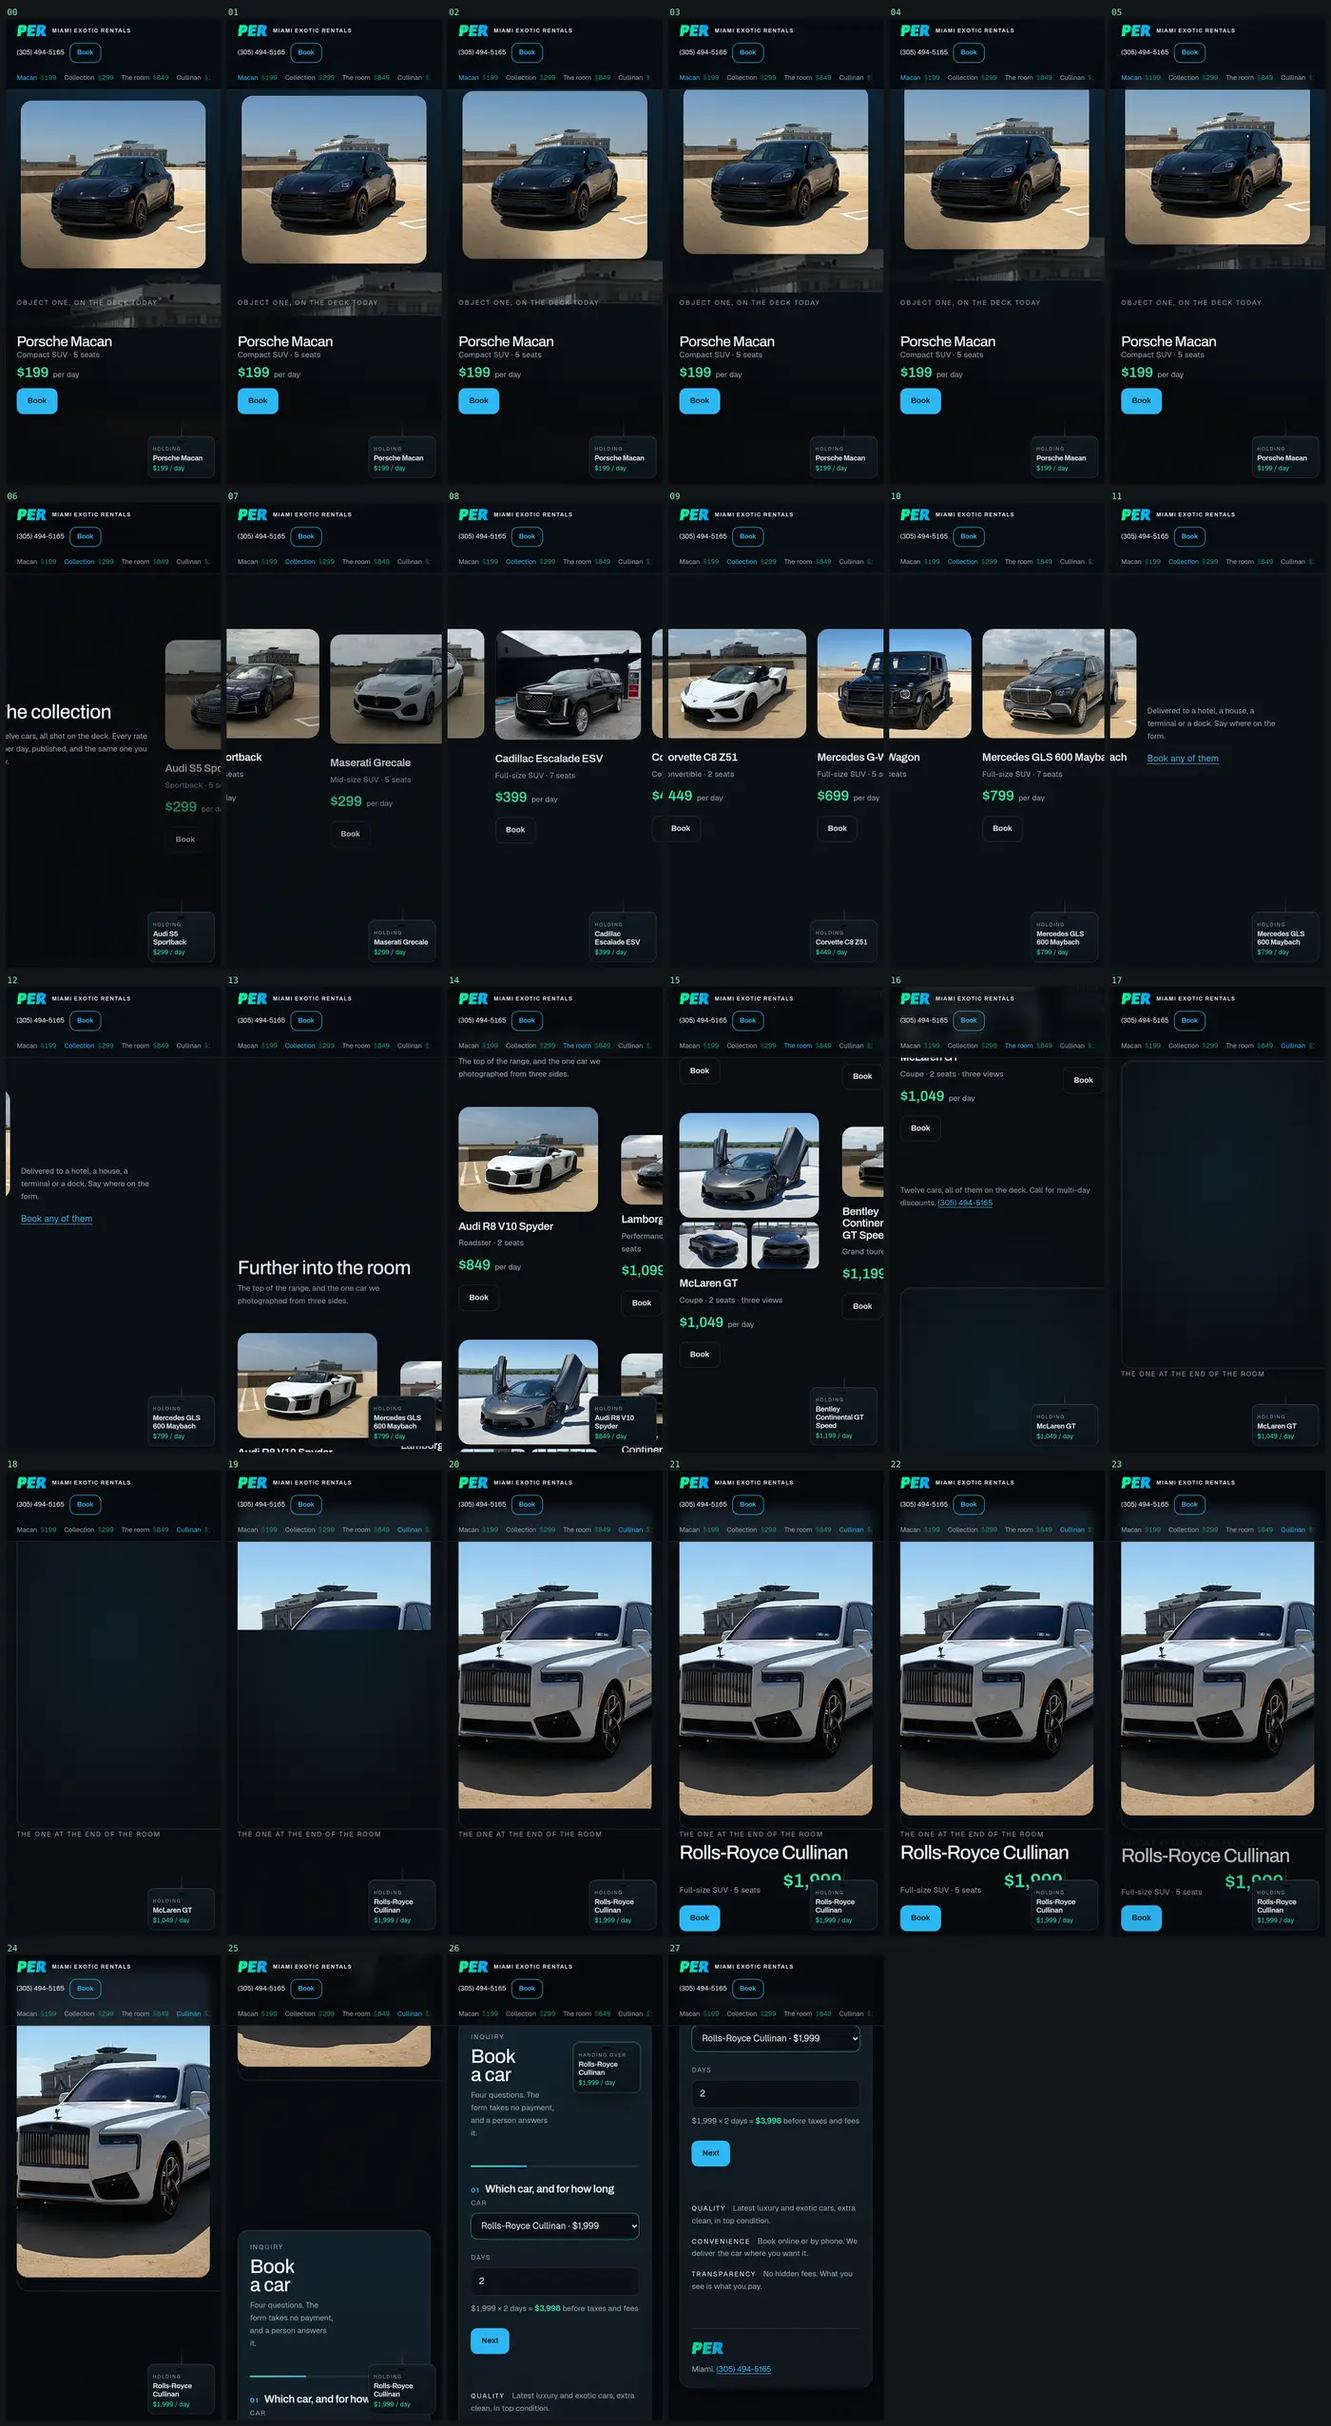
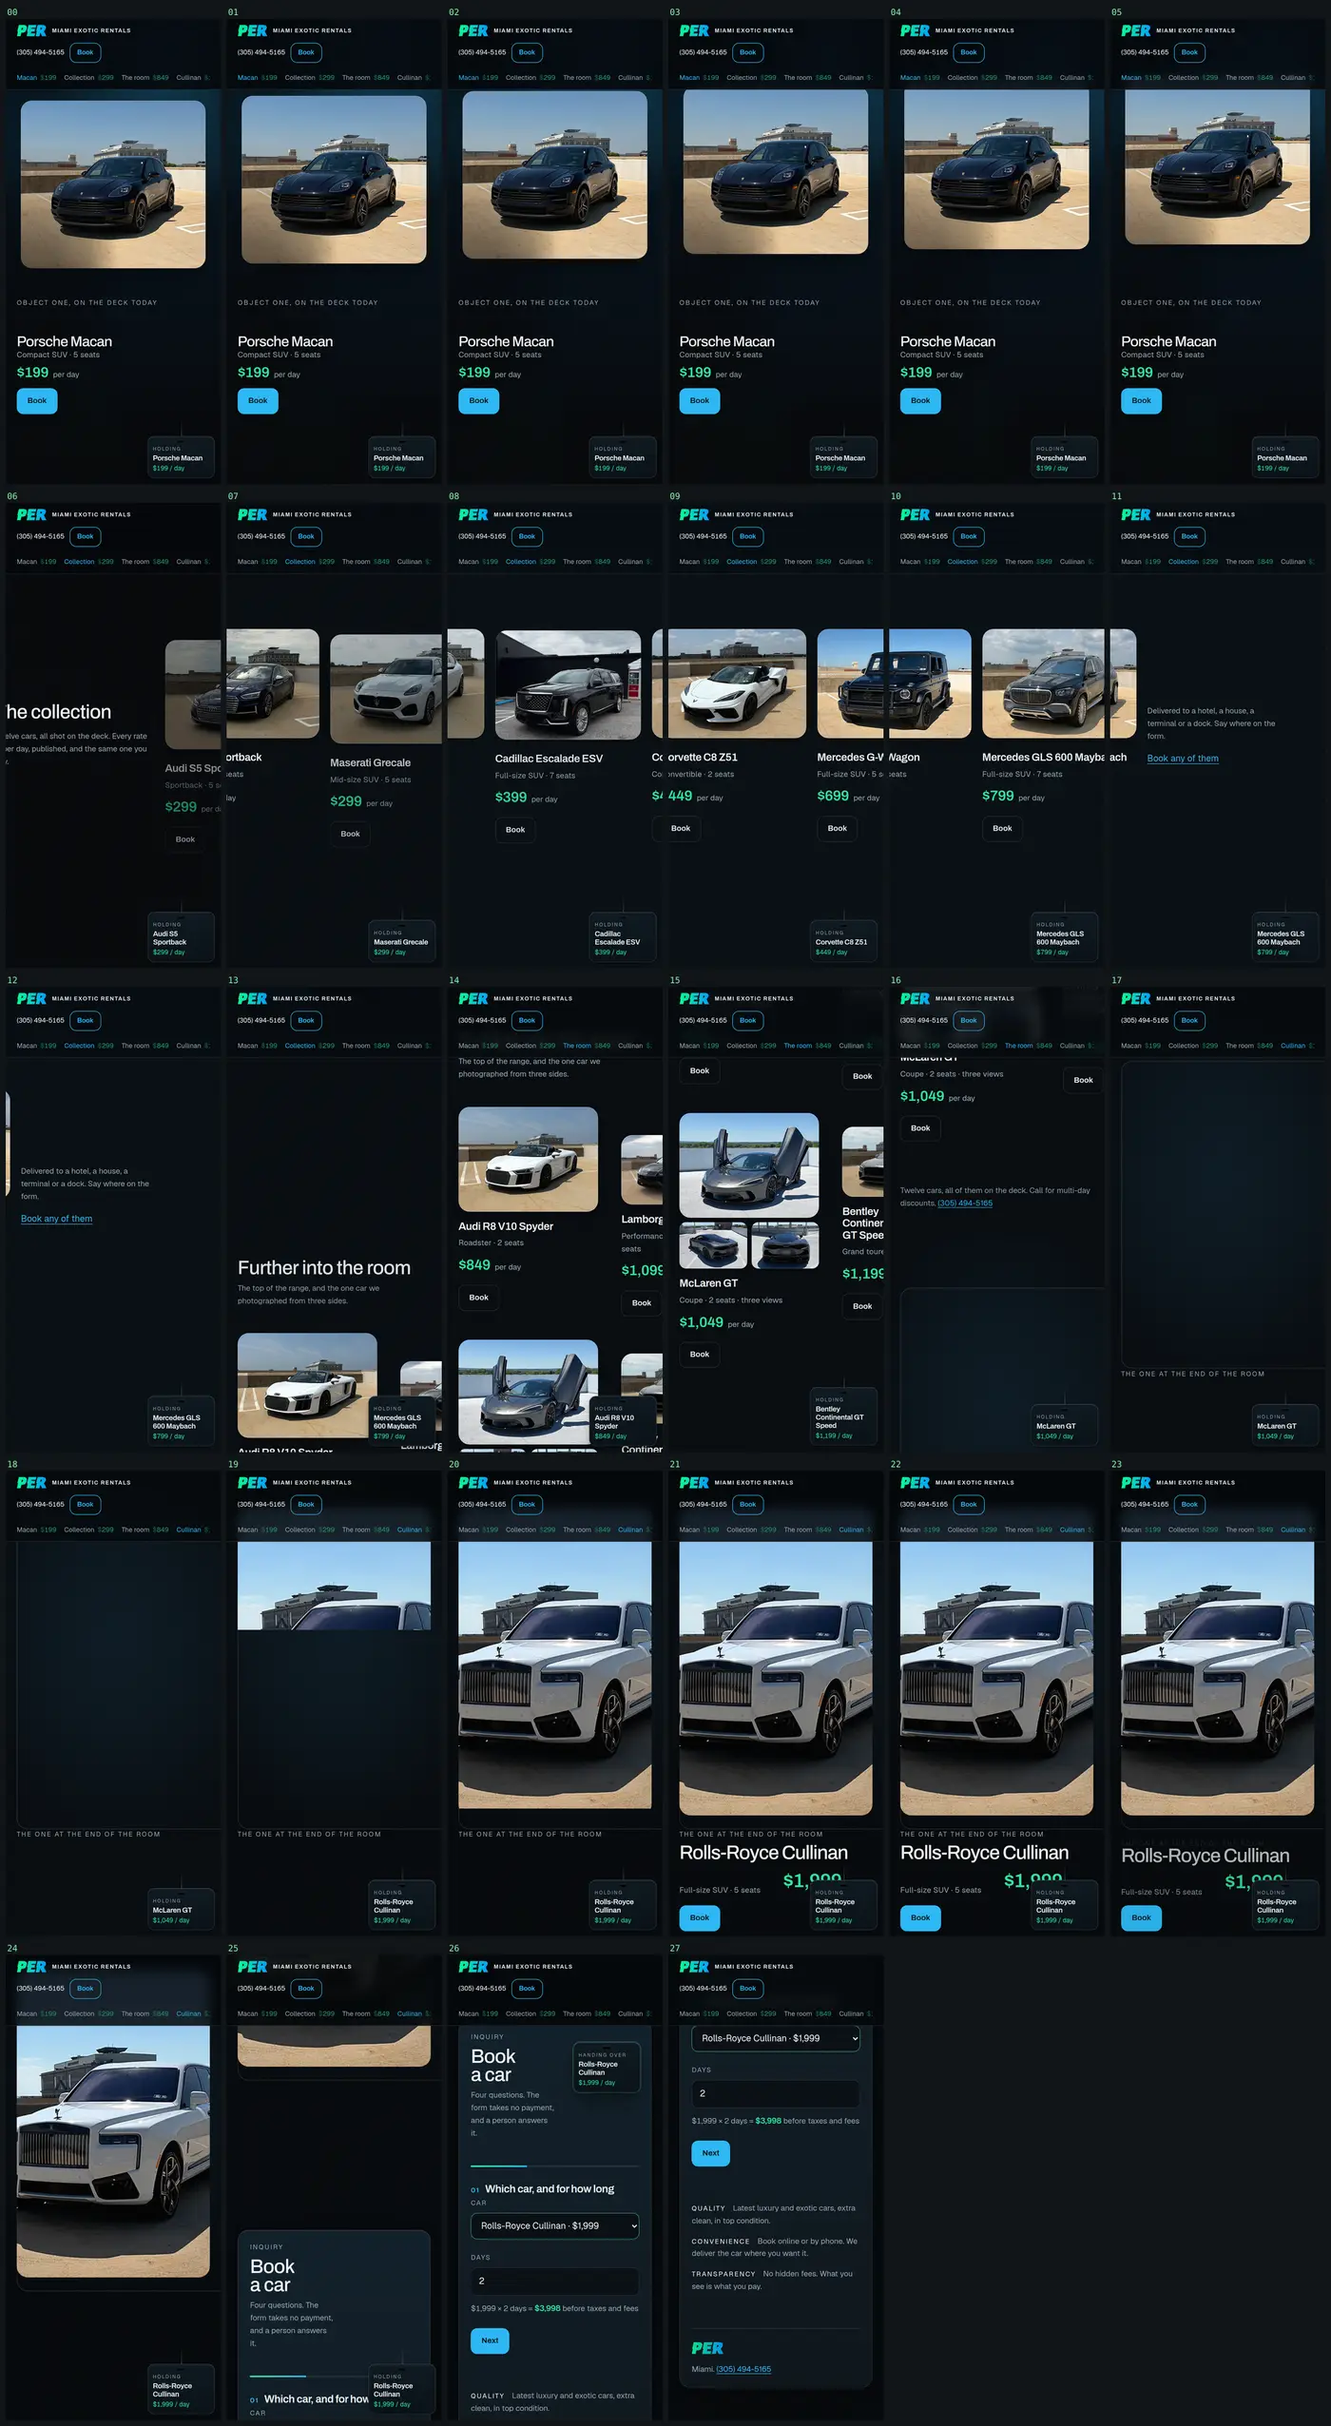
Gradient hero: cut the photographic backdrop planes
The owner looked at the keyed skyline sitting behind the hero frame and called
it what it is. At a 560px source both backdrop planes upscale into smears: the
skyline reads as a grey blur and the cropped deck as a tan haze. Neither earns
its place next to a clean photograph of a car.

Both are gone, with their assets. The hero's ground is now the brand's own
gradient, blue high on the right and green low on the left, and the only
photograph in the hero is the car in its frame.

Depth is still three rates and two overlaps:

  ground  the gradient, no travel
  glow    one soft light behind the frame                 -0.9
  plate   the photograph in its frame, pushing in         -0.45
  floor   a gradient foreground over the frame's edge      0.55
  label   real markup at 1x, crossing the frame's corner

That is less literal than a photographic diorama, and it is the right trade
here: a clean gradient reads as deliberate where a soft crop of a phone photo
reads as a mistake. The standing preference for dimensional heroes is explicit
that simpler directions are honored when given.

Re-verified all three passes: 13.5vh desktop, 13.3vh phone, no dead scroll,
every cue still clears 4.5:1 on the composited page, no failed requests. BRIEF,
README and the fingerprint row record the hero device change and why.

Claude-Session: https://claude.ai/code/session_01WNHnTBcKyrBsYk1asL9UUS

diff --git a/sites/per-miami/per.css b/sites/per-miami/per.css
@@ -229,46 +229,34 @@ body { overflow-x: clip; }
 .hero__sky {
   position: absolute; inset: 0;
   background:
-    radial-gradient(120% 80% at 62% 12%, color-mix(in oklab, #0F2E44 70%, transparent) 0%, transparent 62%),
-    linear-gradient(180deg, #0A1C2A 0%, #071219 46%, var(--sc-canvas) 86%);
+    radial-gradient(86% 58% at 74% 6%,
+      color-mix(in oklab, var(--sc-accent) 26%, #05121C) 0%, transparent 62%),
+    radial-gradient(76% 52% at 10% 96%,
+      color-mix(in oklab, var(--per-rate) 13%, #04120F) 0%, transparent 64%),
+    linear-gradient(176deg, #06151F 0%, #05101A 46%, var(--sc-canvas) 88%);
 }
-.hero__plane {
+/* One soft light, travelling faster than anything else, so the ground is not
+   a flat sheet. The keyed skyline and the cropped deck that used to sit here
+   read as smears behind the frame at a 560px source, so the hero's only
+   photograph is the car, in its frame. */
+.hero__glow {
   position: absolute;
-  left: 50%;
-  max-width: none;
-  width: min(1800px, 165vw);
-  height: auto;
+  left: 54%; top: 4%;
+  width: min(1180px, 124vw);
+  aspect-ratio: 2 / 1;
+  translate: -50% 0;
+  background: radial-gradient(50% 50% at 50% 50%,
+    color-mix(in oklab, var(--sc-accent) 20%, transparent) 0%, transparent 72%);
+  filter: blur(26px);
+  z-index: 1;
   pointer-events: none;
 }
-/* Distance is scale, softness and lower contrast, not only rate. */
-.hero__plane--skyline {
-  bottom: 44%;
-  translate: -50% 0;
-  filter: brightness(0.54) saturate(0.6) contrast(1.02) blur(0.3px);
-  opacity: 0.92;
-  z-index: 1;
-}
-.hero__plane--deck {
-  bottom: -16%;
-  translate: -50% 0;
-  width: min(2100px, 200vw);
-  filter: brightness(0.3) saturate(0.38) contrast(1.12);
-  z-index: 4;
-  /* Cut so it dips away from the label. A straight-edged foreground plane
-     covered the hero's Reserve button within one screen of scroll; shaped, it
-     still overtakes the photograph on its way past and leaves the ask
-     legible the whole time. */
-  mask-image: linear-gradient(to right,
-    transparent 0%, transparent 34%,
-    rgba(0, 0, 0, 0.3) 44%,
-    rgba(0, 0, 0, 0.85) 54%, #000 64%);
-}
-/* The floor: planes travel past the stage's bottom edge and get clipped
-   there, so a gradient to the page ground hides the clip line at any scroll
-   position. Above every plane, below the type. */
+/* The floor. With the photographic planes gone this is the foreground: it
+   travels, it overtakes the frame's lower edge, and it beds the whole stage
+   into the page ground. Above the frame, below the type. */
 .hero__floor {
-  position: absolute; inset: auto 0 0 0;
-  height: 26vh;
+  position: absolute; inset: auto 0 -8% 0;
+  height: 34vh;
   background: linear-gradient(to top, var(--sc-canvas) 0%,
     color-mix(in oklab, var(--sc-canvas) 82%, transparent) 38%, transparent 100%);
   z-index: 5;
@@ -789,9 +777,8 @@ body { overflow-x: clip; }
     width: auto;
   }
   .hero__label .label__name { font-size: var(--sc-t-xl); }
-  .hero__plane--skyline { bottom: 40%; top: auto; width: 300vw; filter: brightness(0.5) saturate(0.55) contrast(1.02); }
-  .hero__plane--deck { bottom: -2%; width: 220vw; mask-image: none; }
-  .hero__floor { height: 22vh; }
+  .hero__glow { top: 2%; width: 190vw; filter: blur(30px); }
+  .hero__floor { height: 26vh; }
 
   .rail { padding-inline: var(--sc-gutter); }
   .act-room .sc-wrap { padding-left: var(--sc-gutter); }

diff --git a/sites/per-miami/index.html b/sites/per-miami/index.html
@@ -44,20 +44,22 @@
 <main>
 
   <!-- 1 · ARRIVAL · parallax. Object one is already in view and already
-       labelled: the collection starts at the top of the page. Four planes,
-       three of them keys or crops of the owner's own frame. -->
+       labelled: the collection starts at the top of the page. The backdrop is
+       gradient, not photography: the keyed skyline and the deck crop read as
+       smears behind the frame at this source resolution, so the only
+       photograph in the hero is the car, in its frame. Depth comes from three
+       rates and two overlaps instead. -->
   <section id="macan" class="act-hero" data-sc-act="pin" data-sc-span="1.9" data-sc-drift="#05070A" aria-labelledby="macan-h">
     <div data-sc-stage class="hero">
 
       <div class="hero__sky" aria-hidden="true"></div>
-      <img class="hero__plane hero__plane--skyline" src="assets/hero-skyline.webp"
-           width="1800" height="261" alt="" aria-hidden="true" data-sc-parallax="-1.1">
+      <div class="hero__glow" aria-hidden="true" data-sc-parallax="-0.9"></div>
 
       <figure class="hero__frame" data-sc-parallax="-0.45">
         <img class="hero__shot" src="assets/macan.webp"
              srcset="assets/macan-m.webp 780w, assets/macan.webp 1400w"
              sizes="(max-width: 1040px) 86vw, 44vw" width="1400" height="1270"
-             alt="A black Porsche Macan parked alone on an open rooftop deck, city skyline behind it.">
+             alt="A black Porsche Macan parked alone on an open rooftop deck.">
       </figure>
 
       <div class="hero__label sc-stack" data-sc-cue="0 1 0 0">
@@ -68,9 +70,7 @@
         <a class="button" href="#reserve" data-car="Porsche Macan">Book</a>
       </div>
 
-      <img class="hero__plane hero__plane--deck" src="assets/hero-deck.webp"
-           width="1800" height="237" alt="" aria-hidden="true" data-sc-parallax="0.9">
-      <div class="hero__floor" aria-hidden="true"></div>
+      <div class="hero__floor" aria-hidden="true" data-sc-parallax="0.55"></div>
       <div class="hero__column" aria-hidden="true"></div>
     </div>
   </section>

diff --git a/sites/per-miami/BRIEF.md b/sites/per-miami/BRIEF.md
@@ -149,24 +149,33 @@ Its bans hold: no kinetic headline, no spotlight, no magnet, no scrub at all.
 
 ## Hero depth
 
-Four planes, three of them derived from the owner's own frame, moving at
-different rates with real occlusion:
+**The backdrop is gradient, on the owner's instruction.** The first version put
+a keyed skyline behind the frame and a cropped deck in front of it, both
+derived from the hero photograph. At a 560px source they upscale into smears,
+and the owner said so plainly. They are gone, and nothing photographic is left
+in the hero except the car, in its frame.
+
+Depth is still three rates and two overlaps, which is what the layering rule
+actually asks for:
 
 ```
-sky       CSS gradient, no travel
-skyline   the far building, keyed off the sky into genuine alpha   -1.1
-plate     the photograph in its frame, pushing in as it travels    -0.45
-deck      the parking deck, in front of the plate, overlapping it   0.9
-label     real markup at 1x, between the plate and the deck
+ground    the brand gradient: blue high right, green low left, no travel
+glow      one soft light, the only thing behind the frame          -0.9
+plate     the photograph in its frame, pushing in as it travels     -0.45
+floor     a gradient foreground that overtakes the frame's edge      0.55
+label     real markup at 1x, crossing the frame's lower corner
 ```
 
-**A keyed cutout of the hero car was built and rejected.** Every source is a
-560px phone frame, so the matte upscales soft and the inpainted plate behind it
-shows; `lab/macan-cutout-check.png` and `lab/macan-mask-check.png` are the
-evidence, and `node src/assets.mjs cutout` reproduces them. Keeping the car
-inside its photograph and building depth around the plate is the honest version
-at this resolution. Both keys that did ship (the wordmark's black ground, the
-skyline's sky) are clean, and both are in `lab/` to be looked at.
+This is less literal layering than a photographic diorama would give, and it is
+the right trade at this resolution: a clean gradient reads as deliberate, a
+soft crop of a phone photo reads as a mistake. The standing preference for
+dimensional heroes is explicit that simpler directions are honored when given.
+
+**A keyed cutout of the hero car was built and rejected too.** Every source is
+a 560px phone frame, so the matte upscales soft and the inpainted plate behind
+it shows; `lab/macan-cutout-check.png` and `lab/macan-mask-check.png` are the
+evidence, and `node src/assets.mjs cutout` reproduces them. The one key that
+still ships is the wordmark's black ground, which is clean.
 
 ## Palette
 
@@ -190,7 +199,7 @@ the call button. Green never becomes a button; blue never becomes a price.
 
 | Act | Beat | Device | Why this one | Span |
 |---|---|---|---|---|
-| 1 | Object one, in the room | `parallax` (4 planes) + pointer lean | The hero has to be an object already in view with its label, and depth has to come from the scene around it | 1.9 |
+| 1 | Object one, in the room | `parallax` (gradient ground, glow, plate, floor) | The hero has to be an object already in view with its label, and the depth has to come from motion and overlap rather than from photographs of the place | 1.9 |
 | 2 | The collection | `pan` + `tilt` | Lateral travel reads as breadth, which is the whole question a fleet answers. Six objects cost the page nothing in height here, which is why the rail carries the wider half of the range | 5.2 |
 | 3 | Further into the room | `flow` + `in`, asymmetric mosaic, one object as a three-view study | Twelve objects will not all fit one rail at a readable pace, and a second rail would be the same act twice. The mosaic is a different size and rhythm, the study gives the one multi-angle car the treatment its coverage allows, and the quiet tail is the silence | ~3.4 |
 | 4 | The flagship | `reveal` (up, edge to edge) on a `pin` | A wipe is a change of state, and this is the one moment the page raises its voice | 3.3 |

diff --git a/scrollcraft/FINGERPRINTS.md b/scrollcraft/FINGERPRINTS.md
@@ -28,7 +28,7 @@ changes only grammar and world will fail it.
 
 | Build | Grammar | Nav treatment | Hero device | Act-sequence shape | Close pattern | Signature move | World | Port |
 |---|---|---|---|---|---|---|---|---|
-| `per-miami` | Gallery / catalog | Standing index of objects, left column on desktop, one jumpable row on a phone, marks where the reader is | Object one already in view: four-plane framed plate (CSS sky, keyed skyline, photograph pushing in, deck in front) with its label crossing the frame | pin 2.0 > pan 4.2 > flow > pin 3.6 > flow · 5 acts · 11.7vh | Inquiry plate typeset as an object label: a three-step booking survey that the key tag docks into, holding still | The key tag: stamps whichever car is in front of the reader, then hands itself to the form | Photographic, the owner's own rooftop frames, dark premium | Static HTML/CSS/JS |
+| `per-miami` | Gallery / catalog | Standing index of objects, left column on desktop, one jumpable row on a phone, marks where the reader is | Object one already in view: a framed plate on a pure gradient ground, with a travelling glow behind it, a gradient floor overtaking its lower edge and the label crossing the frame. No photography in the hero except the car itself | pin 2.0 > pan 4.2 > flow > pin 3.6 > flow · 5 acts · 11.7vh | Inquiry plate typeset as an object label: a three-step booking survey that the key tag docks into, holding still | The key tag: stamps whichever car is in front of the reader, then hands itself to the form | Photographic, the owner's own rooftop frames, dark premium | Static HTML/CSS/JS |
 
 First build in this registry, so the gate had nothing to clear. It shares
 nothing with a prior row because there was none.
@@ -45,10 +45,12 @@ as a constraint, so writing them down is the whole point.
 - **Gallery / catalog** grammar, with object labels on one schema and rates as
   the only figures on the page.
 - **A standing index of objects as the nav**, marking position and jumping.
-- **A framed plate hero**: the subject stays inside its photograph and depth
-  comes from planes around the frame. A later build wanting depth should reach
-  for a real alpha cutout instead, which this one rejected only because its
-  source photographs are 560px phone frames.
+- **A framed plate hero on a gradient ground**: the subject stays inside its
+  photograph, nothing photographic sits behind or in front of it, and depth
+  comes from three rates and two overlaps. The photographic backdrop this build
+  shipped first (a keyed skyline, a cropped deck) was cut on the owner's
+  instruction: at a 560px source both read as smears. A later build wanting
+  literal diorama depth needs source frames that can carry it.
 - **Close as an inquiry plate carrying a multi-step form**, resolved by holding
   still rather than by a pinned CTA island.
 - **The key tag** signature move, and with it the shape of "a persistent object

diff --git a/sites/per-miami/README.md b/sites/per-miami/README.md
@@ -25,11 +25,13 @@ scripts and `assets/`.
 ```
 index.html              the page. Real headings, real labels, real reading order
 per.css                 this page's layer: tokens, chrome, the five acts, the tag
-                        (the rail's cards and the mosaic share one label schema)
+                        (the rail's cards and the mosaic share one label schema).
+                        The hero's backdrop is gradient: no photograph sits
+                        behind or in front of the car's frame
 per.js                  the standing index, the key tag, the booking survey
 scrollcraft.css/.js     the engine, copied unmodified from the skill
 assets/                 fourteen graded photographs at two widths each, the keyed
-                        wordmark, two hero planes, three self-hosted webfonts
+                        wordmark, three self-hosted webfonts
 src/assets.mjs          the asset pipeline that produced assets/ (see below),
                         including the plate blur on the two McLaren rear views
 src/sheet.mjs           builds a contact sheet from a screenshot run
